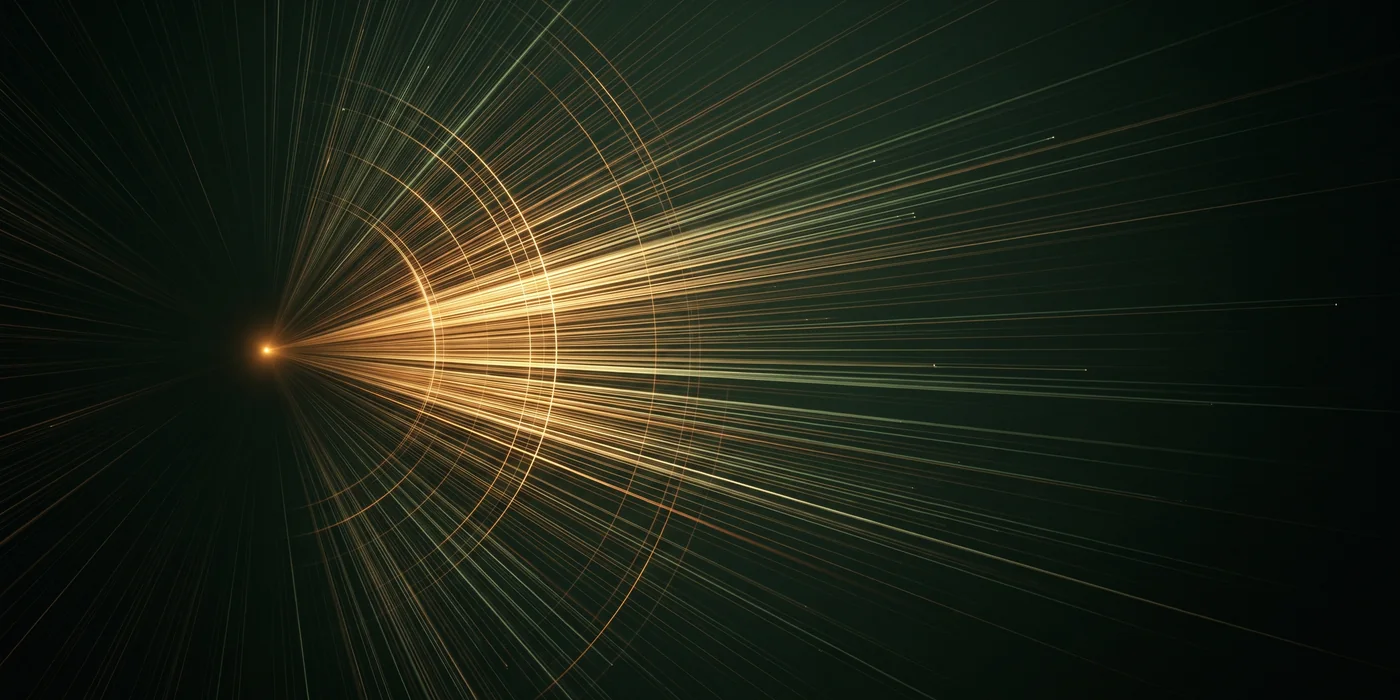
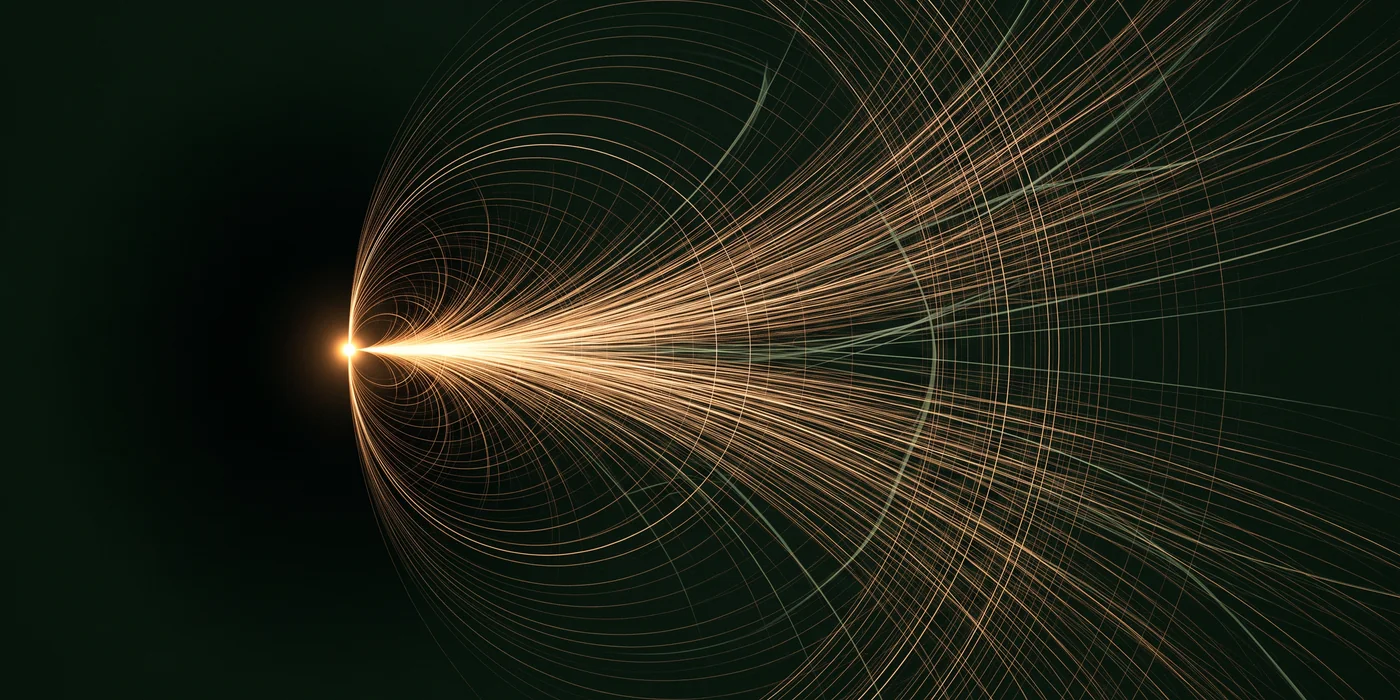
feat(pulse): second plate, and make the dial elliptical
Swapped in a render with a cleaner dark left quarter, so the number has
somewhere to sit that is not competing with light. Its source is at 25%
across rather than 19%, and the canvas origin moved with it.

Also made the dial an ellipse. The card is roughly twice as wide as it is
tall, and a circular dial threw its widest marks straight out of the bottom
edge - two agents were being drawn off the card entirely.

diff --git a/web/src/pages/Roster.tsx b/web/src/pages/Roster.tsx
@@ -138,7 +138,7 @@ function prioritise(rows: readonly Row[]): Priority[] {
 
    The plate is decoration and says so; every mark on top of it is measured.
 
-   Positions are tied together: the plate's own light source sits at 19% across
+   Positions are tied together: the plate's own light source sits at 25% across
    and halfway down, and the canvas uses the same origin. Swap the plate for a
    different render and those two numbers have to move with it, or the dots
    will float beside the burst instead of sitting in it. */
@@ -201,14 +201,17 @@ function Burst({ rows, line }: { rows: readonly Row[]; line: number }) {
       g.setTransform(dpr, 0, 0, dpr, 0, 0);
       g.clearRect(0, 0, w, h);
 
-      // The plate's own light source sits at 19% across and halfway down the
+      // The plate's own light source sits at 25% across and halfway down the
       // render. These match it, so a dot lands on the burst rather than beside
       // it. Change one and you must change the other.
-      const cx = w * 0.19, cy = h * 0.496;
-      const R = w * 0.78;
+      const cx = w * 0.25, cy = h * 0.504;
+      // The dial is an ellipse, not a circle. The card is roughly twice as wide
+      // as it is tall, so a circular dial throws its widest marks straight out
+      // of the bottom edge.
+      const rx = w * 0.74, ry = h * 0.44;
       const { spread, lineAt, dots } = marks;
       const at = (a: number, f: number) =>
-        [cx + Math.cos(a) * R * f, cy + Math.sin(a) * R * f] as const;
+        [cx + Math.cos(a) * rx * f, cy + Math.sin(a) * ry * f] as const;
 
       // The type sits on the left, so the plate is knocked back off it. This
       // is the only thing painted rather than drawn.
@@ -224,7 +227,7 @@ function Burst({ rows, line }: { rows: readonly Row[]; line: number }) {
       g.lineWidth = 1.5;
       g.setLineDash([4, 5]);
       g.beginPath();
-      g.arc(cx, cy, R * lineAt, -spread - 0.16, spread + 0.16);
+      g.ellipse(cx, cy, rx * lineAt, ry * lineAt, 0, -spread - 0.16, spread + 0.16);
       g.stroke();
       g.setLineDash([]);
 
